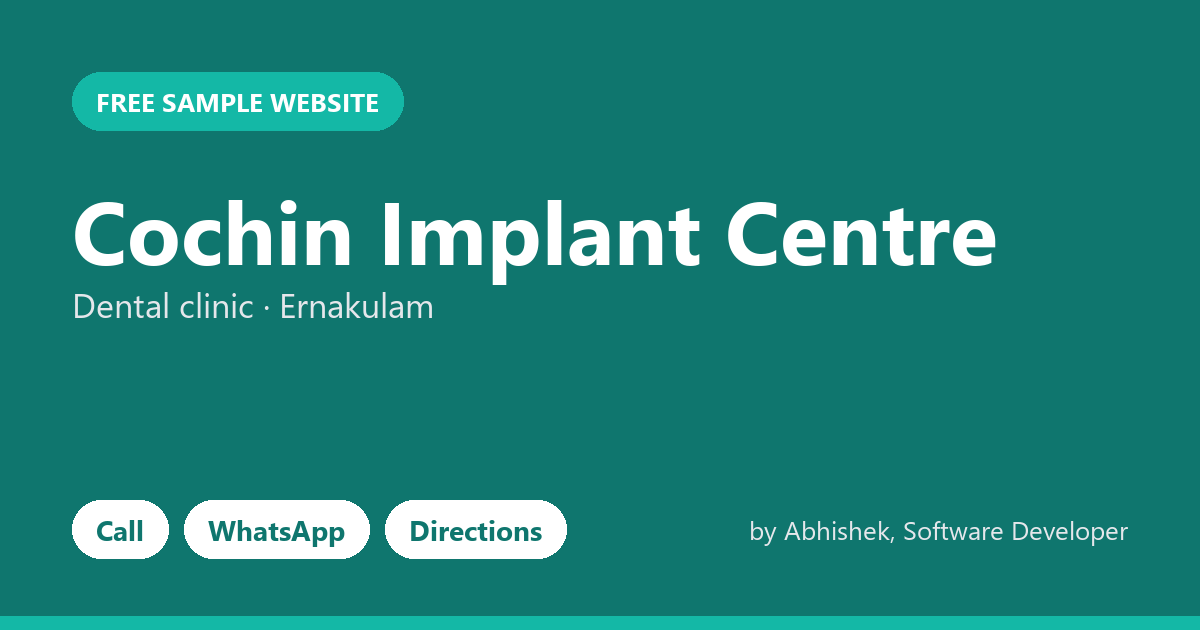
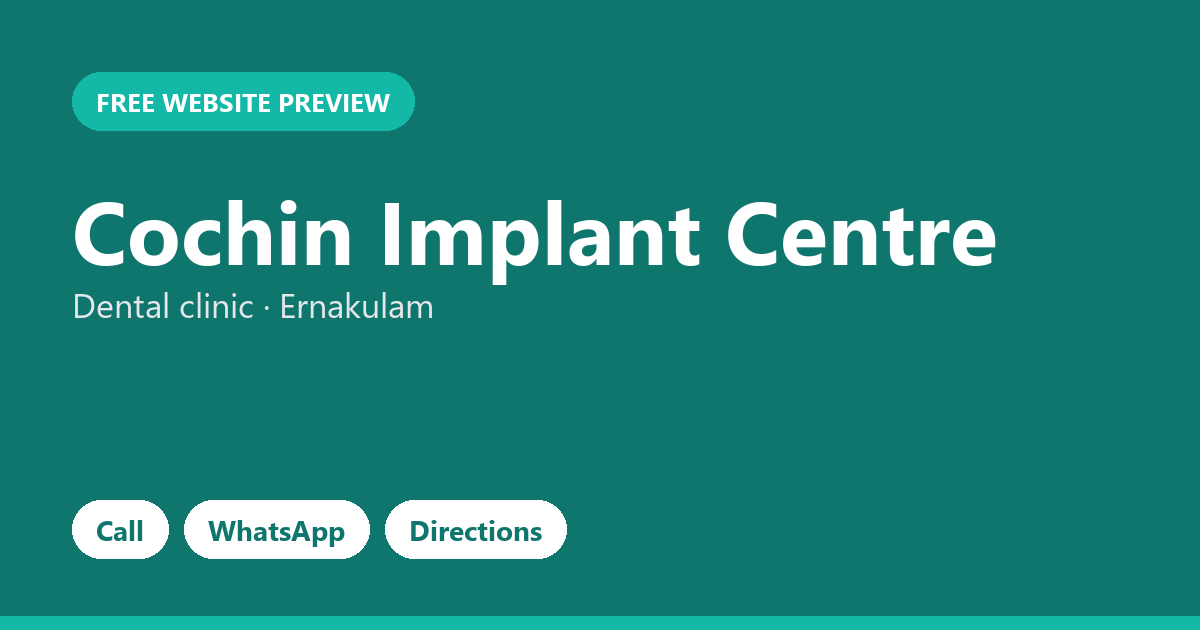
Previews: drop price and personal name (21-25 of 139)

Changed region(s): [[0.6167, 0.8143, 0.925, 0.8746], [0.1233, 0.1206, 0.37, 0.2111]]

diff --git a/p/confeitaria-31-de-janeiro-panaji-5791/index.html b/p/confeitaria-31-de-janeiro-panaji-5791/index.html
@@ -6,8 +6,8 @@
 <title>Confeitaria 31 De Janeiro | Bakery &amp; sweets in Panaji</title>
 <meta name="description" content="Freshly baked every day. Cakes, pastries and treats for every celebration.">
 <meta property="og:type" content="website">
-<meta property="og:title" content="Confeitaria 31 De Janeiro · Free sample website">
-<meta property="og:description" content="Made by Abhishek, Software Developer. Call, WhatsApp and directions in one tap.">
+<meta property="og:title" content="Confeitaria 31 De Janeiro · Free website preview">
+<meta property="og:description" content="Call, WhatsApp and directions in one tap.">
 <meta property="og:url" content="https://roguestar03.github.io/p/confeitaria-31-de-janeiro-panaji-5791/">
 <meta property="og:image" content="https://roguestar03.github.io/p/confeitaria-31-de-janeiro-panaji-5791/og.png">
 <meta property="og:image:width" content="1200">
@@ -167,7 +167,7 @@ footer{padding:40px 0 110px;border-top:1px solid var(--line);font-size:14px;colo
 </style>
 </head>
 <body>
-<div class="pv">Sample website made for <b>Confeitaria 31 De Janeiro</b> by <b>Abhishek</b>. Not the official website yet. <b>Like it?</b> Make it yours for ₹1,999. Contact: <a href="mailto:abhishekkayasth87@gmail.com">abhishekkayasth87@gmail.com</a> · <a href="https://www.linkedin.com/in/abhishek-kayasth-050250239/" target="_blank" rel="noopener">LinkedIn</a></div>
+<div class="pv">Free website preview for <b>Confeitaria 31 De Janeiro</b>. Not the official website yet. <b>Like it?</b> Just reply to our message. Contact: <a href="mailto:abhishekkayasth87@gmail.com">abhishekkayasth87@gmail.com</a> · <a href="https://www.linkedin.com/in/abhishek-kayasth-050250239/" target="_blank" rel="noopener">LinkedIn</a></div>
 <header>
   <div class="wrap nav">
     <a href="#top" class="logo"><span class="mark">C3</span><span class="t">Confeitaria 31 De Janeiro</span></a>
@@ -259,7 +259,7 @@ footer{padding:40px 0 110px;border-top:1px solid var(--line);font-size:14px;colo
       <div><b style="color:var(--ink)">Confeitaria 31 De Janeiro</b><br>Corte De Oiterio, Rua 31 de Janeiro, behind Mary Immaculate Girls School, Panaji<p class="soc"><a href="https://www.facebook.com/742355429230571" target="_blank" rel="noopener">Facebook</a></p></div>
       <div>+91 83222 25791<br>&copy; 2026 Confeitaria 31 De Janeiro</div>
     </div>
-    <p class="credit">Sample website by Abhishek, Software Developer · <a href="mailto:abhishekkayasth87@gmail.com">abhishekkayasth87@gmail.com</a> · <a href="https://www.linkedin.com/in/abhishek-kayasth-050250239/" target="_blank" rel="noopener">LinkedIn</a></p>
+    <p class="credit">Website preview · <a href="mailto:abhishekkayasth87@gmail.com">abhishekkayasth87@gmail.com</a> · <a href="https://www.linkedin.com/in/abhishek-kayasth-050250239/" target="_blank" rel="noopener">LinkedIn</a></p>
   </div>
 </footer>
 

diff --git a/p/crossfit-hitec-city-hyderabad-6700/index.html b/p/crossfit-hitec-city-hyderabad-6700/index.html
@@ -6,8 +6,8 @@
 <title>CrossFit HITEC City | Gym &amp; fitness in Hyderabad</title>
 <meta name="description" content="Train harder, get stronger. Modern equipment, expert trainers and a motivating crowd.">
 <meta property="og:type" content="website">
-<meta property="og:title" content="CrossFit HITEC City · Free sample website">
-<meta property="og:description" content="Made by Abhishek, Software Developer. Call, WhatsApp and directions in one tap.">
+<meta property="og:title" content="CrossFit HITEC City · Free website preview">
+<meta property="og:description" content="Call, WhatsApp and directions in one tap.">
 <meta property="og:url" content="https://roguestar03.github.io/p/crossfit-hitec-city-hyderabad-6700/">
 <meta property="og:image" content="https://roguestar03.github.io/p/crossfit-hitec-city-hyderabad-6700/og.png">
 <meta property="og:image:width" content="1200">
@@ -167,7 +167,7 @@ footer{padding:40px 0 110px;border-top:1px solid var(--line);font-size:14px;colo
 </style>
 </head>
 <body>
-<div class="pv">Sample website made for <b>CrossFit HITEC City</b> by <b>Abhishek</b>. Not the official website yet. <b>Like it?</b> Make it yours for ₹1,999. Contact: <a href="mailto:abhishekkayasth87@gmail.com">abhishekkayasth87@gmail.com</a> · <a href="https://www.linkedin.com/in/abhishek-kayasth-050250239/" target="_blank" rel="noopener">LinkedIn</a></div>
+<div class="pv">Free website preview for <b>CrossFit HITEC City</b>. Not the official website yet. <b>Like it?</b> Just reply to our message. Contact: <a href="mailto:abhishekkayasth87@gmail.com">abhishekkayasth87@gmail.com</a> · <a href="https://www.linkedin.com/in/abhishek-kayasth-050250239/" target="_blank" rel="noopener">LinkedIn</a></div>
 <header>
   <div class="wrap nav">
     <a href="#top" class="logo"><span class="mark">CH</span><span class="t">CrossFit HITEC City</span></a>
@@ -259,7 +259,7 @@ footer{padding:40px 0 110px;border-top:1px solid var(--line);font-size:14px;colo
       <div><b style="color:var(--ink)">CrossFit HITEC City</b><br>Survey Number 64/2, First Floor, East Wing, Block A, International Tech Park Hyderabad Plot Number 17<p class="soc"><a href="https://www.facebook.com/253639967836227" target="_blank" rel="noopener">Facebook</a></p></div>
       <div>+91 98111 76700<br>&copy; 2026 CrossFit HITEC City</div>
     </div>
-    <p class="credit">Sample website by Abhishek, Software Developer · <a href="mailto:abhishekkayasth87@gmail.com">abhishekkayasth87@gmail.com</a> · <a href="https://www.linkedin.com/in/abhishek-kayasth-050250239/" target="_blank" rel="noopener">LinkedIn</a></p>
+    <p class="credit">Website preview · <a href="mailto:abhishekkayasth87@gmail.com">abhishekkayasth87@gmail.com</a> · <a href="https://www.linkedin.com/in/abhishek-kayasth-050250239/" target="_blank" rel="noopener">LinkedIn</a></p>
   </div>
 </footer>
 

diff --git a/p/cochin-implant-centre-ernakulam-8080/index.html b/p/cochin-implant-centre-ernakulam-8080/index.html
@@ -6,8 +6,8 @@
 <title>Cochin Implant Centre | Dental clinic in Ernakulam</title>
 <meta name="description" content="Gentle, modern dental care for the whole family. Book your visit in under a minute.">
 <meta property="og:type" content="website">
-<meta property="og:title" content="Cochin Implant Centre · Free sample website">
-<meta property="og:description" content="Made by Abhishek, Software Developer. Call, WhatsApp and directions in one tap.">
+<meta property="og:title" content="Cochin Implant Centre · Free website preview">
+<meta property="og:description" content="Call, WhatsApp and directions in one tap.">
 <meta property="og:url" content="https://roguestar03.github.io/p/cochin-implant-centre-ernakulam-8080/">
 <meta property="og:image" content="https://roguestar03.github.io/p/cochin-implant-centre-ernakulam-8080/og.png">
 <meta property="og:image:width" content="1200">
@@ -167,7 +167,7 @@ footer{padding:40px 0 110px;border-top:1px solid var(--line);font-size:14px;colo
 </style>
 </head>
 <body>
-<div class="pv">Sample website made for <b>Cochin Implant Centre</b> by <b>Abhishek</b>. Not the official website yet. <b>Like it?</b> Make it yours for ₹1,999. Contact: <a href="mailto:abhishekkayasth87@gmail.com">abhishekkayasth87@gmail.com</a> · <a href="https://www.linkedin.com/in/abhishek-kayasth-050250239/" target="_blank" rel="noopener">LinkedIn</a></div>
+<div class="pv">Free website preview for <b>Cochin Implant Centre</b>. Not the official website yet. <b>Like it?</b> Just reply to our message. Contact: <a href="mailto:abhishekkayasth87@gmail.com">abhishekkayasth87@gmail.com</a> · <a href="https://www.linkedin.com/in/abhishek-kayasth-050250239/" target="_blank" rel="noopener">LinkedIn</a></div>
 <header>
   <div class="wrap nav">
     <a href="#top" class="logo"><span class="mark">CI</span><span class="t">Cochin Implant Centre</span></a>
@@ -259,7 +259,7 @@ footer{padding:40px 0 110px;border-top:1px solid var(--line);font-size:14px;colo
       <div><b style="color:var(--ink)">Cochin Implant Centre</b><br>JJ Tower, Cochin University Junction, Ernakulam<p class="soc"><a href="https://www.facebook.com/848873728636331" target="_blank" rel="noopener">Facebook</a></p></div>
       <div>+91 91425 38080<br>&copy; 2026 Cochin Implant Centre</div>
     </div>
-    <p class="credit">Sample website by Abhishek, Software Developer · <a href="mailto:abhishekkayasth87@gmail.com">abhishekkayasth87@gmail.com</a> · <a href="https://www.linkedin.com/in/abhishek-kayasth-050250239/" target="_blank" rel="noopener">LinkedIn</a></p>
+    <p class="credit">Website preview · <a href="mailto:abhishekkayasth87@gmail.com">abhishekkayasth87@gmail.com</a> · <a href="https://www.linkedin.com/in/abhishek-kayasth-050250239/" target="_blank" rel="noopener">LinkedIn</a></p>
   </div>
 </footer>
 

diff --git a/p/chinese-dental-clinic-jaunpur-4765/index.html b/p/chinese-dental-clinic-jaunpur-4765/index.html
@@ -6,8 +6,8 @@
 <title>Chinese Dental Clinic | Dental clinic in Jaunpur</title>
 <meta name="description" content="Gentle, modern dental care for the whole family. Book your visit in under a minute.">
 <meta property="og:type" content="website">
-<meta property="og:title" content="Chinese Dental Clinic · Free sample website">
-<meta property="og:description" content="Made by Abhishek, Software Developer. Call, WhatsApp and directions in one tap.">
+<meta property="og:title" content="Chinese Dental Clinic · Free website preview">
+<meta property="og:description" content="Call, WhatsApp and directions in one tap.">
 <meta property="og:url" content="https://roguestar03.github.io/p/chinese-dental-clinic-jaunpur-4765/">
 <meta property="og:image" content="https://roguestar03.github.io/p/chinese-dental-clinic-jaunpur-4765/og.png">
 <meta property="og:image:width" content="1200">
@@ -167,7 +167,7 @@ footer{padding:40px 0 110px;border-top:1px solid var(--line);font-size:14px;colo
 </style>
 </head>
 <body>
-<div class="pv">Sample website made for <b>Chinese Dental Clinic</b> by <b>Abhishek</b>. Not the official website yet. <b>Like it?</b> Make it yours for ₹1,999. Contact: <a href="mailto:abhishekkayasth87@gmail.com">abhishekkayasth87@gmail.com</a> · <a href="https://www.linkedin.com/in/abhishek-kayasth-050250239/" target="_blank" rel="noopener">LinkedIn</a></div>
+<div class="pv">Free website preview for <b>Chinese Dental Clinic</b>. Not the official website yet. <b>Like it?</b> Just reply to our message. Contact: <a href="mailto:abhishekkayasth87@gmail.com">abhishekkayasth87@gmail.com</a> · <a href="https://www.linkedin.com/in/abhishek-kayasth-050250239/" target="_blank" rel="noopener">LinkedIn</a></div>
 <header>
   <div class="wrap nav">
     <a href="#top" class="logo"><span class="mark">CD</span><span class="t">Chinese Dental Clinic</span></a>
@@ -259,7 +259,7 @@ footer{padding:40px 0 110px;border-top:1px solid var(--line);font-size:14px;colo
       <div><b style="color:var(--ink)">Chinese Dental Clinic</b><br>Sutahatti Bazaar, Station Rd, Jaunpur<p class="soc"><a href="https://www.facebook.com/395402810482993" target="_blank" rel="noopener">Facebook</a></p></div>
       <div>+91 92083 44765<br>&copy; 2026 Chinese Dental Clinic</div>
     </div>
-    <p class="credit">Sample website by Abhishek, Software Developer · <a href="mailto:abhishekkayasth87@gmail.com">abhishekkayasth87@gmail.com</a> · <a href="https://www.linkedin.com/in/abhishek-kayasth-050250239/" target="_blank" rel="noopener">LinkedIn</a></p>
+    <p class="credit">Website preview · <a href="mailto:abhishekkayasth87@gmail.com">abhishekkayasth87@gmail.com</a> · <a href="https://www.linkedin.com/in/abhishek-kayasth-050250239/" target="_blank" rel="noopener">LinkedIn</a></p>
   </div>
 </footer>
 

diff --git a/p/comfydent-oral-care-noida-4635/index.html b/p/comfydent-oral-care-noida-4635/index.html
@@ -6,8 +6,8 @@
 <title>ComfyDent Oral Care | Dental clinic in Noida</title>
 <meta name="description" content="Gentle, modern dental care for the whole family. Book your visit in under a minute.">
 <meta property="og:type" content="website">
-<meta property="og:title" content="ComfyDent Oral Care · Free sample website">
-<meta property="og:description" content="Made by Abhishek, Software Developer. Call, WhatsApp and directions in one tap.">
+<meta property="og:title" content="ComfyDent Oral Care · Free website preview">
+<meta property="og:description" content="Call, WhatsApp and directions in one tap.">
 <meta property="og:url" content="https://roguestar03.github.io/p/comfydent-oral-care-noida-4635/">
 <meta property="og:image" content="https://roguestar03.github.io/p/comfydent-oral-care-noida-4635/og.png">
 <meta property="og:image:width" content="1200">
@@ -167,7 +167,7 @@ footer{padding:40px 0 110px;border-top:1px solid var(--line);font-size:14px;colo
 </style>
 </head>
 <body>
-<div class="pv">Sample website made for <b>ComfyDent Oral Care</b> by <b>Abhishek</b>. Not the official website yet. <b>Like it?</b> Make it yours for ₹1,999. Contact: <a href="mailto:abhishekkayasth87@gmail.com">abhishekkayasth87@gmail.com</a> · <a href="https://www.linkedin.com/in/abhishek-kayasth-050250239/" target="_blank" rel="noopener">LinkedIn</a></div>
+<div class="pv">Free website preview for <b>ComfyDent Oral Care</b>. Not the official website yet. <b>Like it?</b> Just reply to our message. Contact: <a href="mailto:abhishekkayasth87@gmail.com">abhishekkayasth87@gmail.com</a> · <a href="https://www.linkedin.com/in/abhishek-kayasth-050250239/" target="_blank" rel="noopener">LinkedIn</a></div>
 <header>
   <div class="wrap nav">
     <a href="#top" class="logo"><span class="mark">CO</span><span class="t">ComfyDent Oral Care</span></a>
@@ -259,7 +259,7 @@ footer{padding:40px 0 110px;border-top:1px solid var(--line);font-size:14px;colo
       <div><b style="color:var(--ink)">ComfyDent Oral Care</b><br>Shop No 12, Radha Krishna Mandir Market, near HDFC Bank, Noida<p class="soc"><a href="https://www.facebook.com/248596135012739" target="_blank" rel="noopener">Facebook</a></p></div>
       <div>+91 88824 44635<br>&copy; 2026 ComfyDent Oral Care</div>
     </div>
-    <p class="credit">Sample website by Abhishek, Software Developer · <a href="mailto:abhishekkayasth87@gmail.com">abhishekkayasth87@gmail.com</a> · <a href="https://www.linkedin.com/in/abhishek-kayasth-050250239/" target="_blank" rel="noopener">LinkedIn</a></p>
+    <p class="credit">Website preview · <a href="mailto:abhishekkayasth87@gmail.com">abhishekkayasth87@gmail.com</a> · <a href="https://www.linkedin.com/in/abhishek-kayasth-050250239/" target="_blank" rel="noopener">LinkedIn</a></p>
   </div>
 </footer>
 
